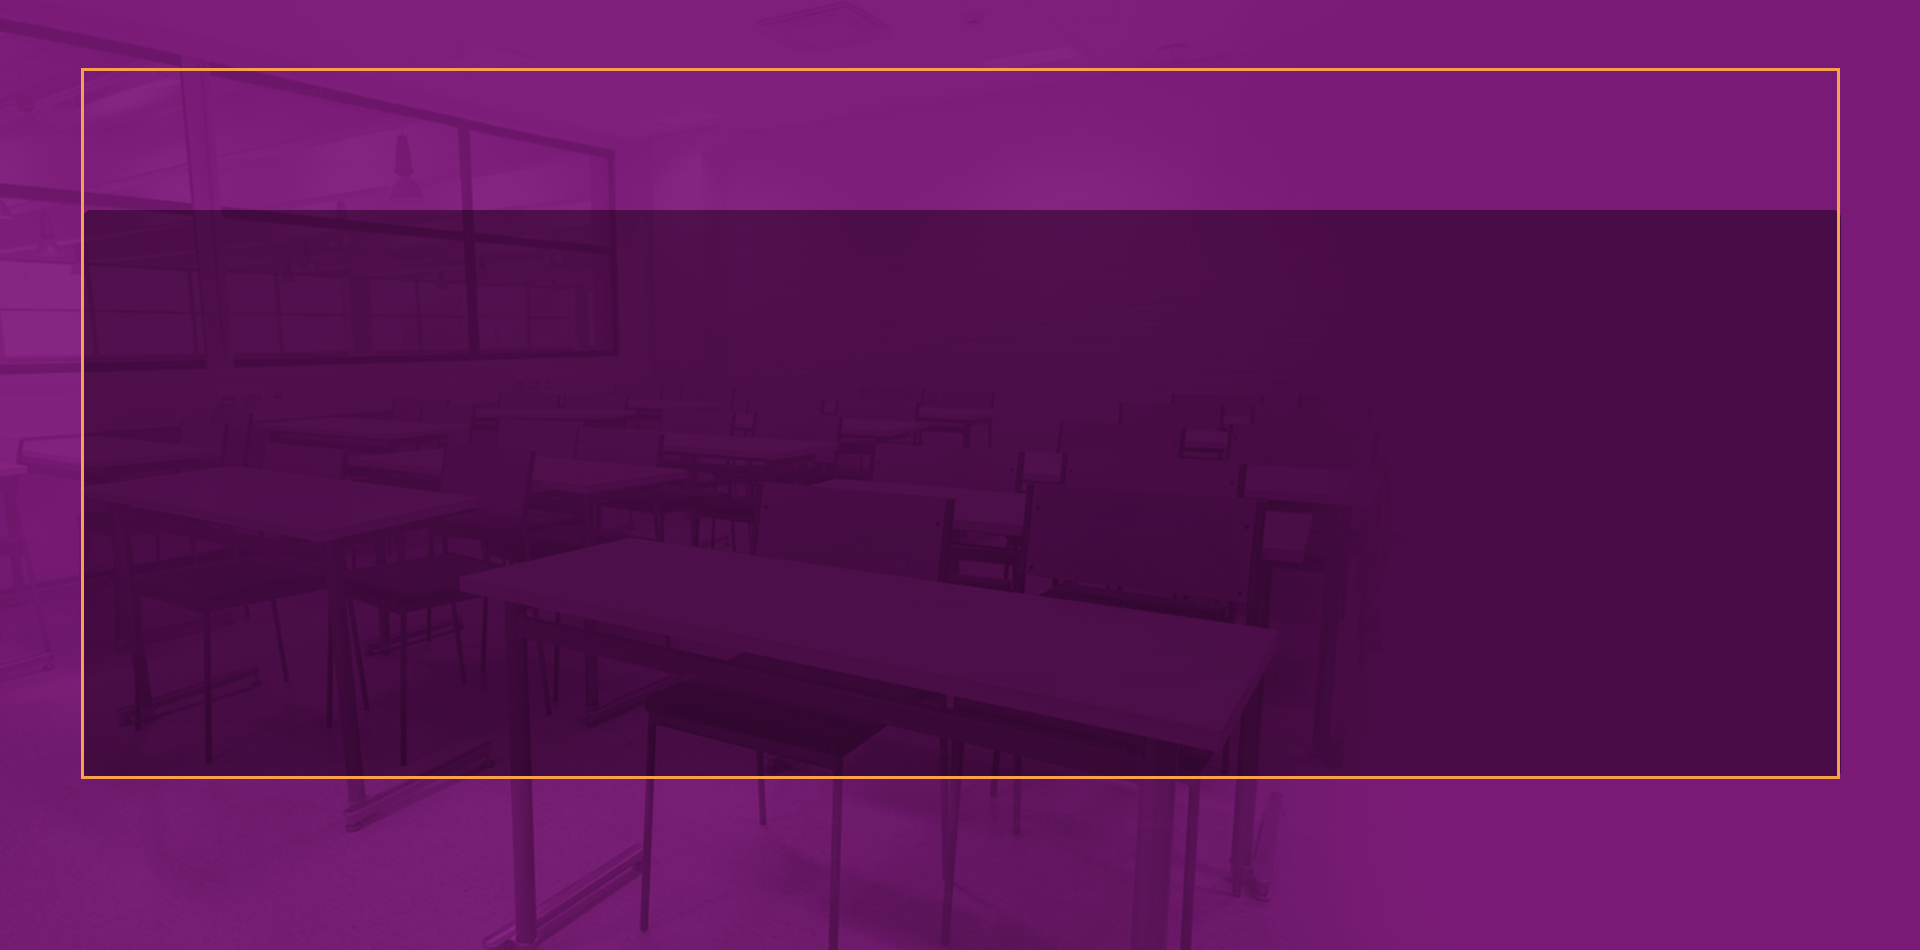
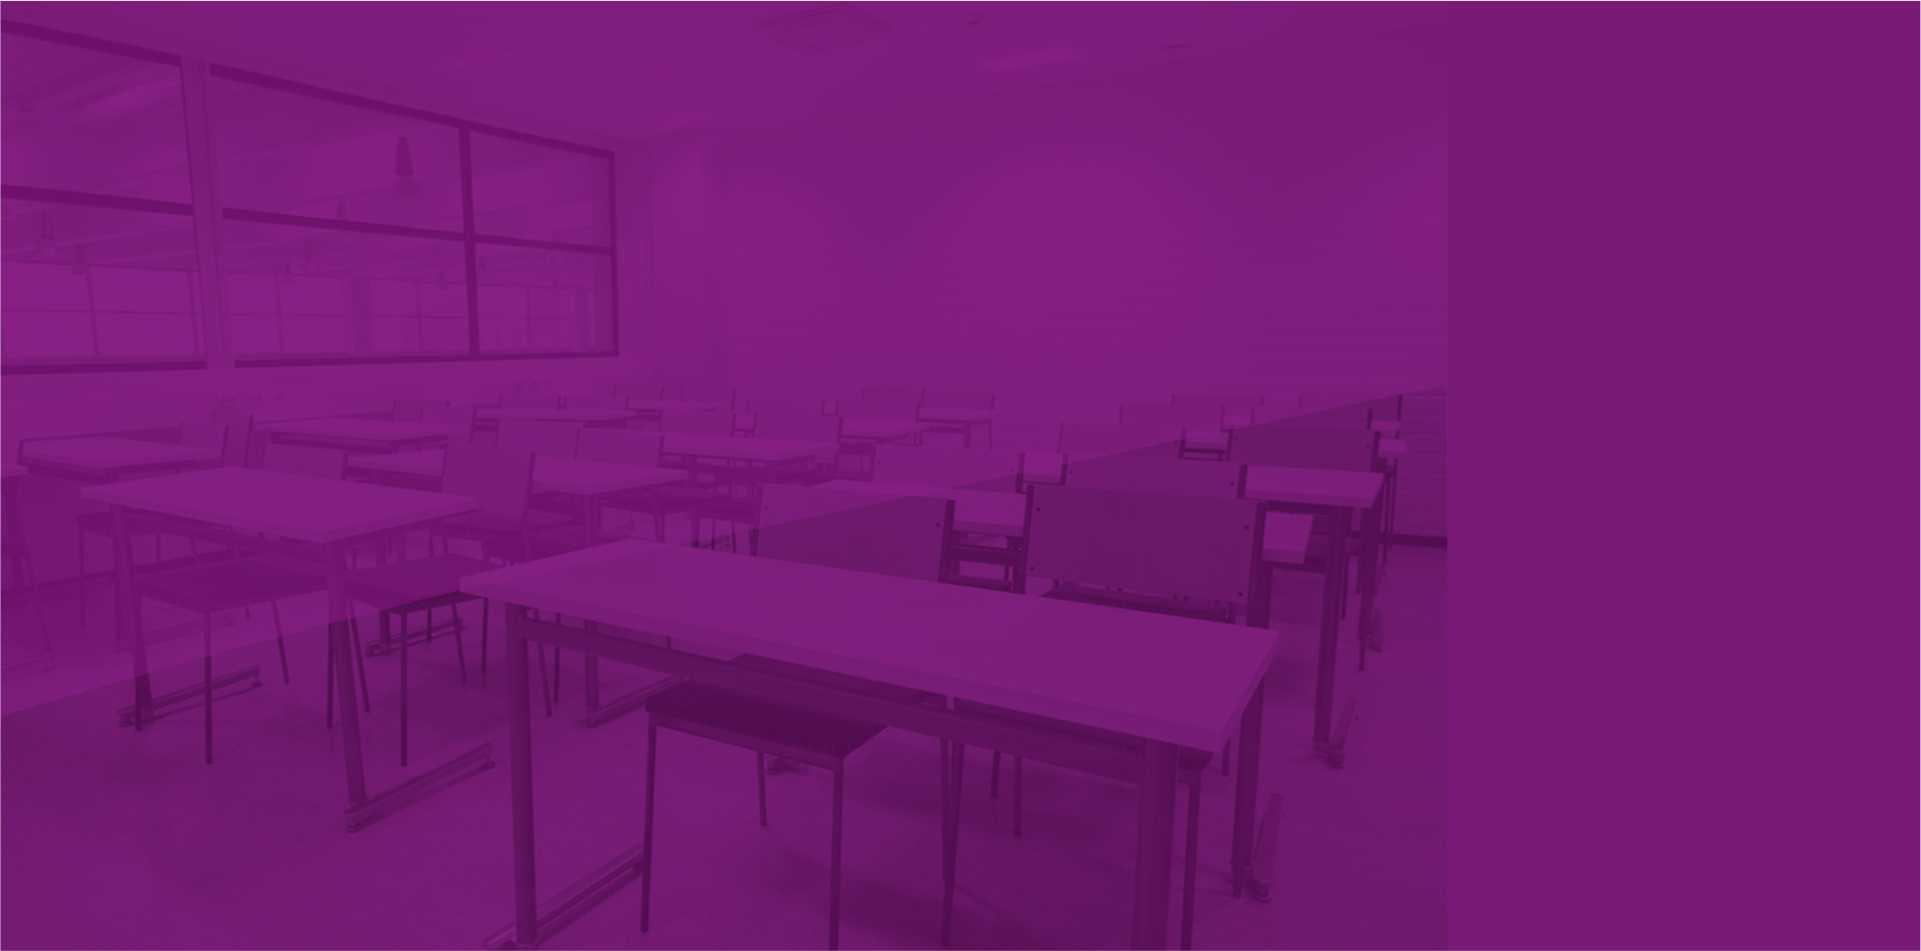
Ajustes responsivos do Hero Header

diff --git a/style.css b/style.css
@@ -71,29 +71,30 @@ button {
 .main-header {
 	position: relative;
 
-	&.mobile {
+	&.responsive {
 		display: flex;
-		background: #93197e url(assets/header-bg.png) no-repeat center center;
-		background-size: contain;
-		aspect-ratio: 1 / .84;
+		background: #93197e url('assets/hero-bg_dt.png') no-repeat;
+		background-size: cover;
+		aspect-ratio: 1 / .85;
 
 		& .content {
-			padding: 26px 18px 0;
+			box-sizing: border-box;
 			position: absolute;
 			display: flex;
 			flex-direction: column;
-			height: calc(100% - 28px);
+			height: 100%;
+			padding: 26px 18px 0;
 
 			& .navbar {
 				position: relative;
 				display: flex;
 				flex-direction: column;
-				gap: 8px;
 				flex: 1;
+				border: solid 2px var(--orange);
 
 				& .logo {
 					width: 50%;
-					padding: 1.5% 8px;
+					padding: 8px 16px 4px;
 				}
 
 				& .nav {
@@ -101,8 +102,9 @@ button {
 					flex-direction: column;
 					flex: 1;
 					justify-content: space-around;
-					margin: 0 0 8px;
-					padding: 0 16px;
+					margin: 0;
+					padding: 16px 24px 32px;
+					background-color: rgba(0, 0, 0, 0.4);
 					list-style: none;
 
 					& a {
@@ -119,6 +121,8 @@ button {
 				}
 
 				& .login {
+					position: absolute;
+					bottom: -16px;
 					width: 110px;
 					margin-left: 16px;
 					background-color: var(--orange);
@@ -129,7 +133,7 @@ button {
 			}
 
 			& .social {
-        padding: 8px 36px 0;
+        padding: 24px 32px 6px;
         width: fit-content;
 
 				& .btn-link {
@@ -138,13 +142,18 @@ button {
 					padding: 6px;
     		}
     	}
+
+			& .overlay-img {
+				position: absolute;
+				display: block;
+				bottom: -1px;
+				right: -40px;
+				width: 70%;
+				height: 100%;
+				background: url('assets/hero-image_dt.png') no-repeat center bottom;
+				background-size: contain;
+			}
 		}
-	}
-
-	&.desktop { display: none; }
-
-	.overlay-img {
-		display: none;
 	}
 }
 
@@ -366,29 +375,27 @@ footer {
  ===== TABLET + DESKTOP =====
 */
 
-@media screen and (min-width: 768px) {
+@media screen and (min-width: 769px) {
 
 	.container {
-		width: 100%;
-		max-width: 1300px;
+		width: 90%;
+		max-width: 1440px;
 	}
 
 	.main-header {
-
-		&.desktop { display: none; }
 		
-		&.mobile { 
+		&.responsive { 
 			position: relative;
 			display: block;
 			height: 90vh;
-			background: url('assets/hero-bg_dt.png') no-repeat;
+			background: #93197e url('assets/hero-bg_dt.png') no-repeat;
 			background-size: cover;
 			aspect-ratio: unset;
 
 			& .content {
-				position: static;
-				width: 100%;
-				max-width: 1300px;
+				position: relative;
+				width: 90%;
+				max-width: 1440px;
 				height: 100%;
 				margin-right: auto;
 				margin-left: auto;
@@ -396,16 +403,11 @@ footer {
 			}
 
 			& .navbar {
-				display: flex;
 				justify-content: space-between;
-				gap: 24px;
-				margin: 50px 0 0;
+				margin: 50px 0 16px;
 
 				& .nav {
-					gap: 24px;
-					padding: 0 40px !important;
-					background-color: unset;
-					flex: 0 !important;
+					padding: 40px 160px 80px !important;
 
 					& a {
 						font-size: 24px !important;
@@ -414,17 +416,17 @@ footer {
 
 				& .logo {
 					width: 300px !important;
-					padding: 24px !important;
+					padding: 24px 150px !important;
 				}
 
 				& .login {
-					margin-left: 60px !important;
+					margin-left: 160px !important;
 					font-size: 18px !important;
 				}
 			}
 
 			& .social {
-				padding: 16px 60px !important;
+				padding: 16px 160px !important;
 
 				& .btn-link {
 					width: 36px !important;
@@ -432,14 +434,10 @@ footer {
 			}
 
 			& .overlay-img {
-				position: absolute;
-				display: block;
-				bottom: 0;
-				right: 5%;
-				width: 42%;
-				height: 95%;
-				background: url('assets/hero-image_dt.png') no-repeat;
-				background-size: cover;
+				bottom: -1px !important;
+				right: 10% !important;
+				width: 600px !important;
+				height: 100% !important;
 			}
 		}
 	}
@@ -562,5 +560,31 @@ footer {
 
 	.footer-logo {
 			width: 200px !important;
+	}
+}
+
+@media screen and (min-width: 1600px) {
+	.main-header {
+		height: 700px !important;
+
+		& .nav {
+			padding: 40px 160px 80px !important;
+		}
+
+		& .logo {
+			padding: 24px 150px !important;
+		}
+
+		& .login {
+			margin-left: 160px !important;
+		}
+
+		& .social {
+			padding: 16px 160px !important;
+		}
+
+		& .overlay-img {
+			width: 43% !important;
+		}
 	}
 }

diff --git a/index.html b/index.html
@@ -10,13 +10,12 @@
 		<link rel="preconnect" href="https://fonts.gstatic.com" crossorigin>
 		<link href="https://fonts.googleapis.com/css2?family=Roboto:ital,wght@0,100..900;1,100..900&display=swap" rel="stylesheet">
 		<link href="https://fonts.googleapis.com/css2?family=Roboto+Condensed:wght@100..900&display=swap" rel="stylesheet">
-		<!-- <link rel="stylesheet" href="https://stackpath.bootstrapcdn.com/bootstrap/4.1.3/css/bootstrap.min.css" integrity="sha384-MCw98/SFnGE8fJT3GXwEOngsV7Zt27NXFoaoApmYm81iuXoPkFOJwJ8ERdknLPMO" crossorigin="anonymous"> -->
 		<link rel="stylesheet" href="style.css">
 	</head>
 	<body>
 		<div class="wrapper">
 
-			<header class="main-header mobile">
+			<header class="main-header responsive">
 				<div class="content">
 
 					<nav class="navbar">
@@ -42,31 +41,6 @@
 
 					<div class="overlay-img"></div>
 					
-				</div>
-			</header>
-
-			<header class="main-header desktop">
-				<div class="container">
-					<div class="header_main-content">
-						<nav class="navbar">
-							<div class="logo">
-								<img src="assets/logo-cide.png" alt="CIDE Logo">
-							</div>
-							<ul class="nav">
-								<li><a href="vagas">Vagas</a></li>
-								<li><a href="#o-que-fazemos">Processos seletivos</a></li>
-								<li><a href="#como-ajudar">Transparência</a></li>
-								<li><a href="#contato">Editais</a></li>
-								<li><a href="#contato">Parcerias</a></li>
-							</ul>
-							<button class="btn login">Login</button>
-						</nav>
-						<div class="social">
-							<a class="btn-link" href="https://www.facebook.com/cide" target="_blank" class="facebook"><img src="assets/icon-face.png" ></a>
-							<a class="btn-link" href="https://www.instagram.com/cide" target="_blank" class="intagram"><img src="assets/icon-instagram.png" ></a>
-						</div>
-					</div>
-					<div class="overlay-img"></div>
 				</div>
 			</header>
 
@@ -210,6 +184,5 @@
 
 		</div>
 		
-		<script src="" async defer></script>
 	</body>
 </html>
